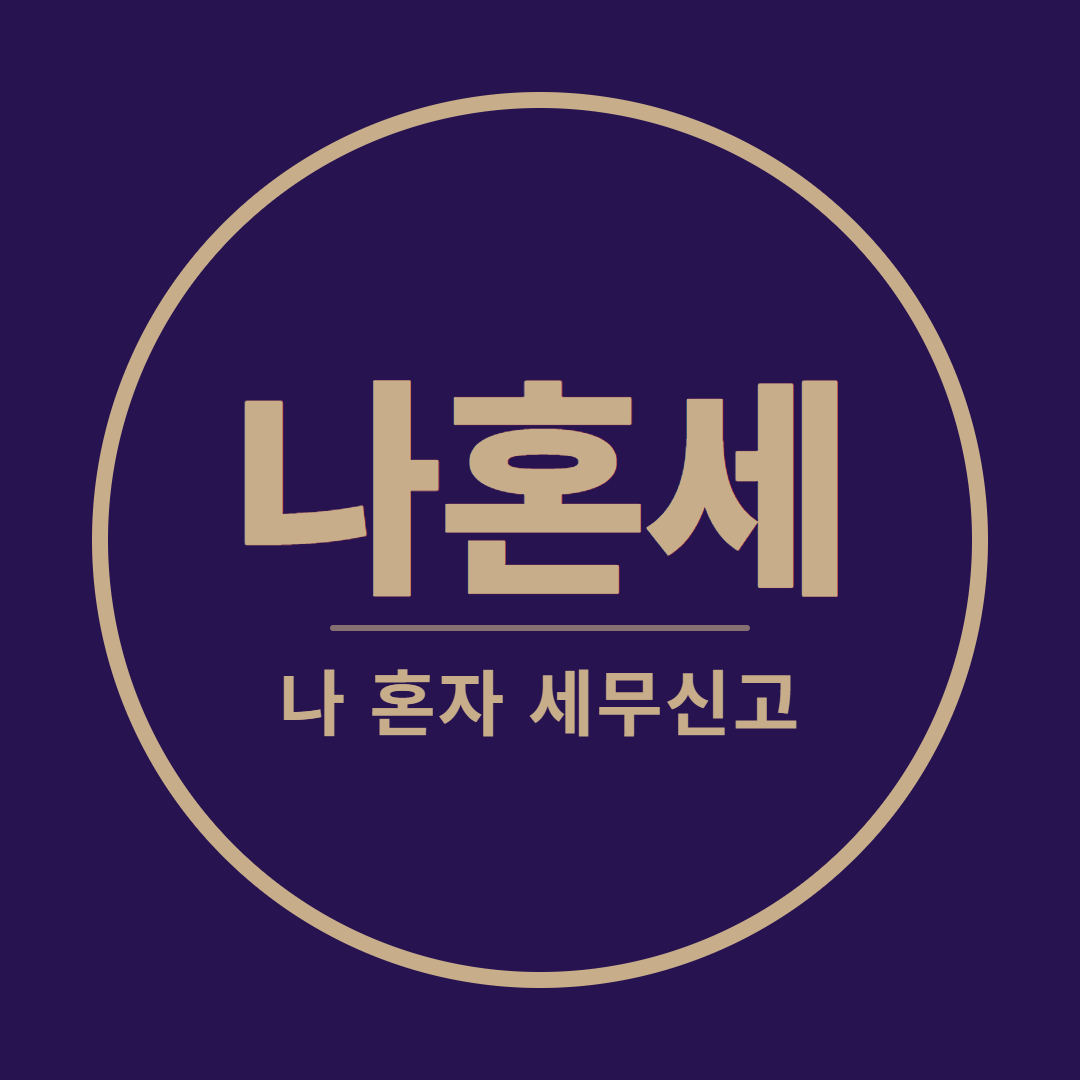
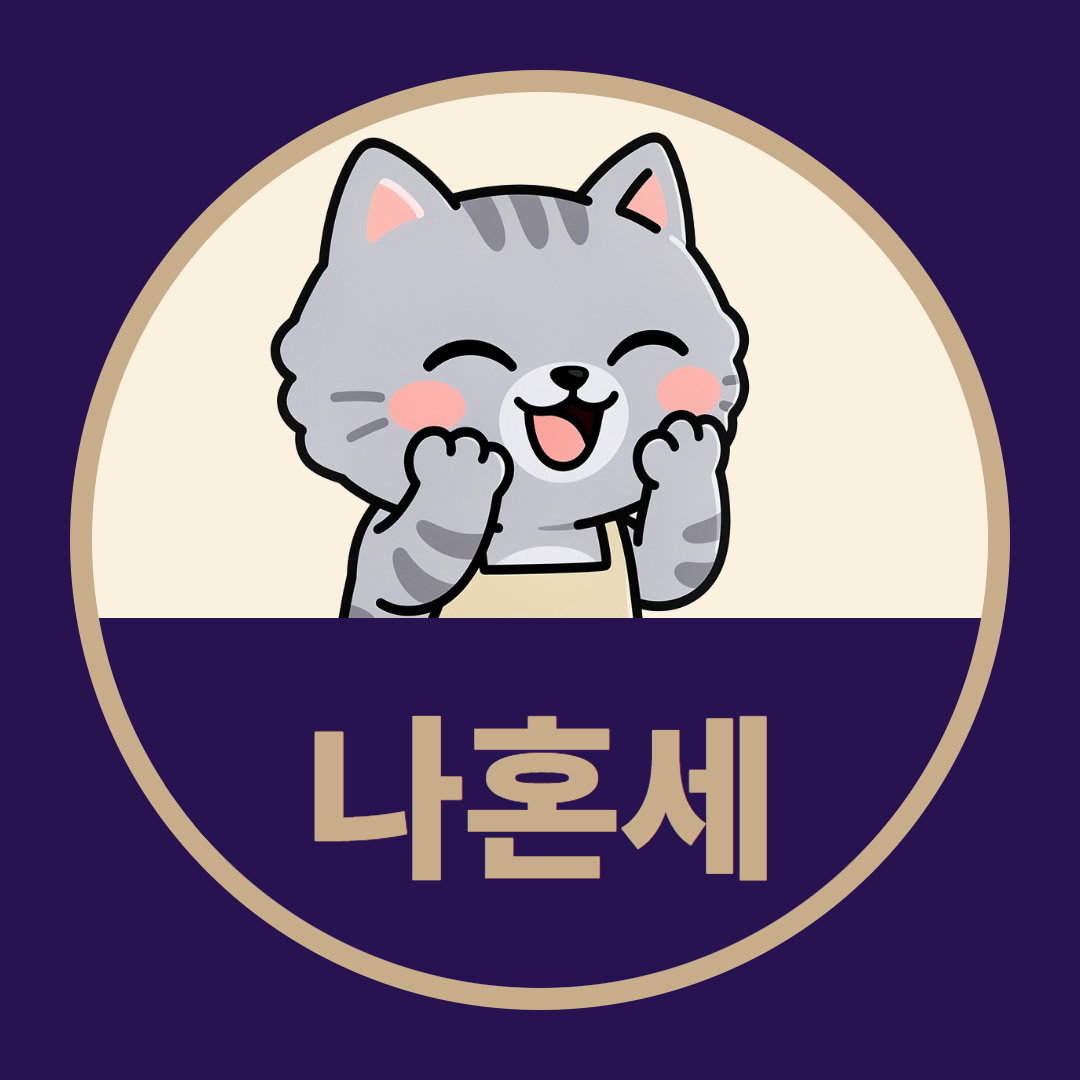
SNS 프로필 사진을 고양이+나혼세 글자로 변경

diff --git a/_tools/sns-profile-cat.html b/_tools/sns-profile-cat.html
@@ -1,0 +1,24 @@
+<!doctype html>
+<html><head><meta charset="utf-8">
+<!-- SNS 프로필 사진 후보(2026-11-25): 고양이 얼굴(assets/toon/cat-hero.png) + "나혼세" 글자, 1080 정사각(SNS가 원으로 자름).
+     #a 고양이 위·글자 아래(크림 원 안), #b 보라 원 안에 고양이 크게 + 아래 금색 띠 글자
+     chrome --headless=new --hide-scrollbars --allow-file-access-from-files --window-size=1080,1080 --screenshot="assets/brand/insta-profile.png" "file:///.../_tools/sns-profile-cat.html#a"  (11/25 사용자 선택 A안, 옛 글자 로고는 _captures/toon-orig/before-azure/insta-profile-text.png) -->
+<link href="https://fonts.googleapis.com/css2?family=Noto+Sans+KR:wght@900&display=swap" rel="stylesheet">
+<style>
+  html, body { margin: 0; width: 1080px; height: 1080px; background: #271350; overflow: hidden; font-family: "Noto Sans KR"; }
+  .g { position: absolute; inset: 70px; border-radius: 50%; background: #c7ad89; }
+  .c { position: absolute; inset: 92px; border-radius: 50%; background: #fbf1df; overflow: hidden; }
+  .c img { position: absolute; left: 50%; transform: translateX(-64%); }
+  .t { position: absolute; left: 0; right: 0; text-align: center; font-weight: 900; letter-spacing: -4px; }
+  /* a: 고양이 작게 위, 글자 아래(보라 글자) */
+  .a .c img { width: 600px; top: 34px; }
+  .a .band { position: absolute; left: 0; right: 0; bottom: 0; height: 370px; background: #271350; }
+  .a .t { bottom: 205px; font-size: 175px; color: #c7ad89; line-height: 1; }
+  /* b: 고양이 크게, 아래쪽 금색 리본 */
+  .b .c img { width: 820px; top: 10px; }
+  .b .rib { position: absolute; left: 120px; right: 120px; bottom: 170px; height: 200px; border-radius: 100px; background: #271350; border: 14px solid #c7ad89; }
+  .b .t { bottom: 205px; font-size: 150px; color: #f1e7d6; line-height: 1; }
+</style></head>
+<body><div class="g"></div><div class="c"><img src="../assets/toon/cat-hero.png"><div class="band"></div></div><div class="rib"></div><div class="t">나혼세</div>
+<script>document.body.className = location.hash.slice(1) || "a"; if (document.body.className === "b") document.querySelector(".band").remove(); else document.querySelector(".rib").remove();</script>
+</body></html>
